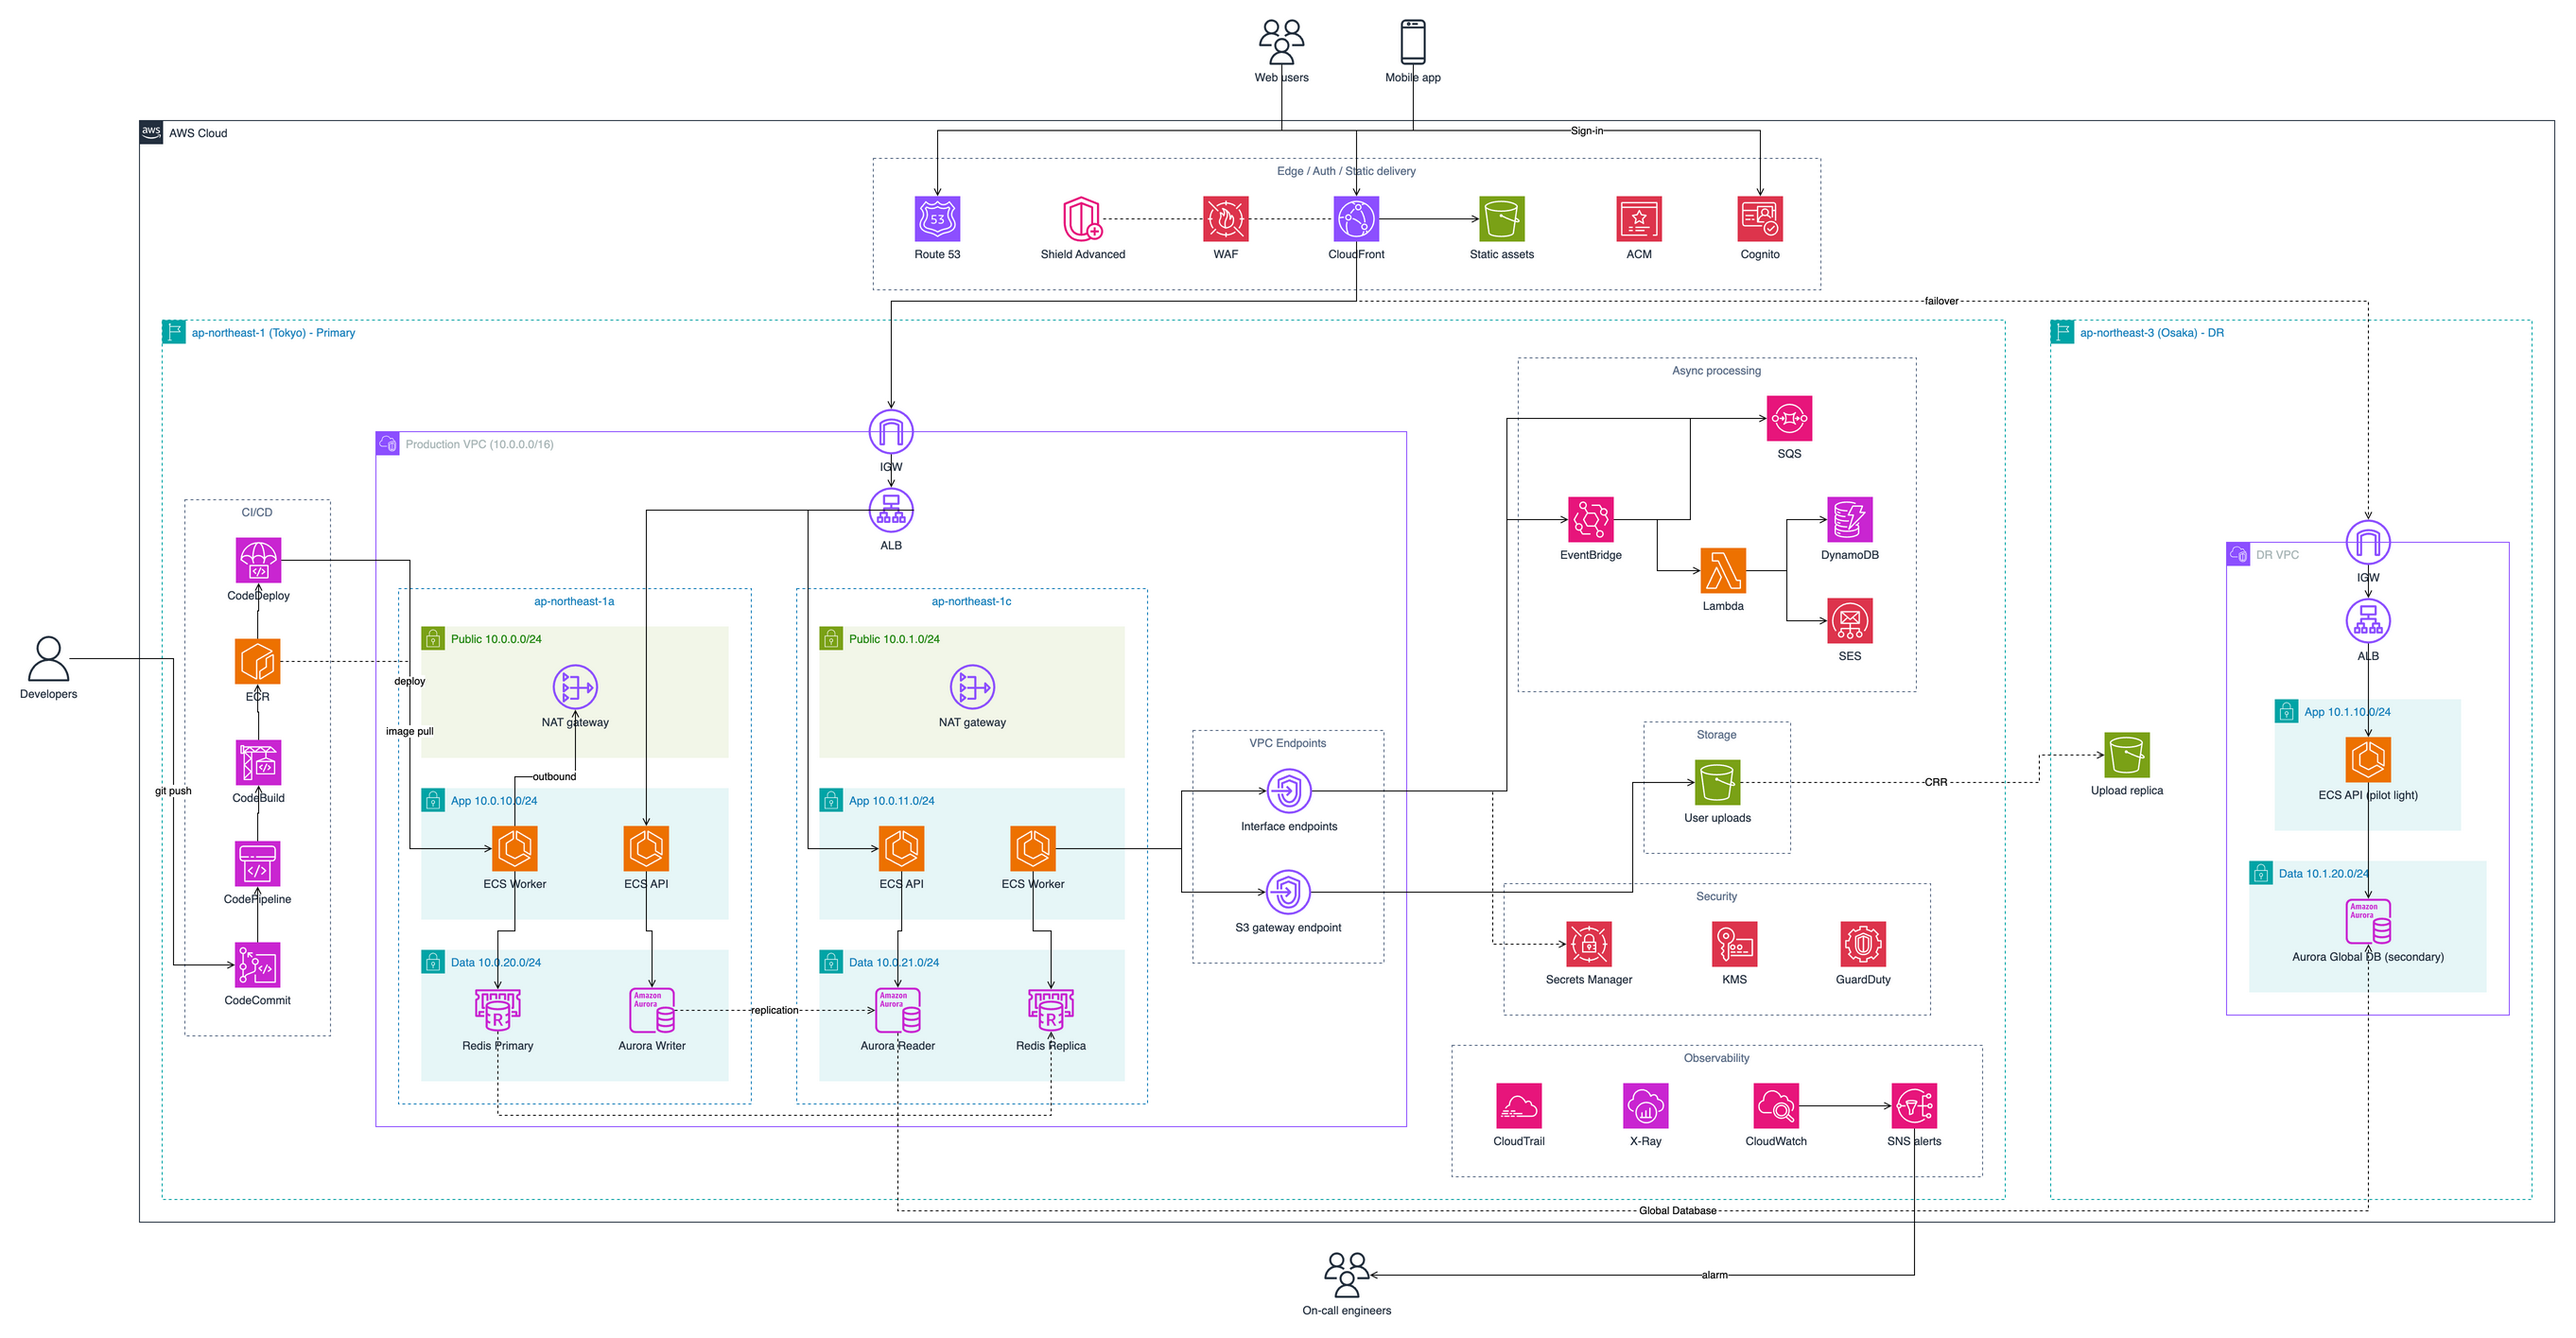
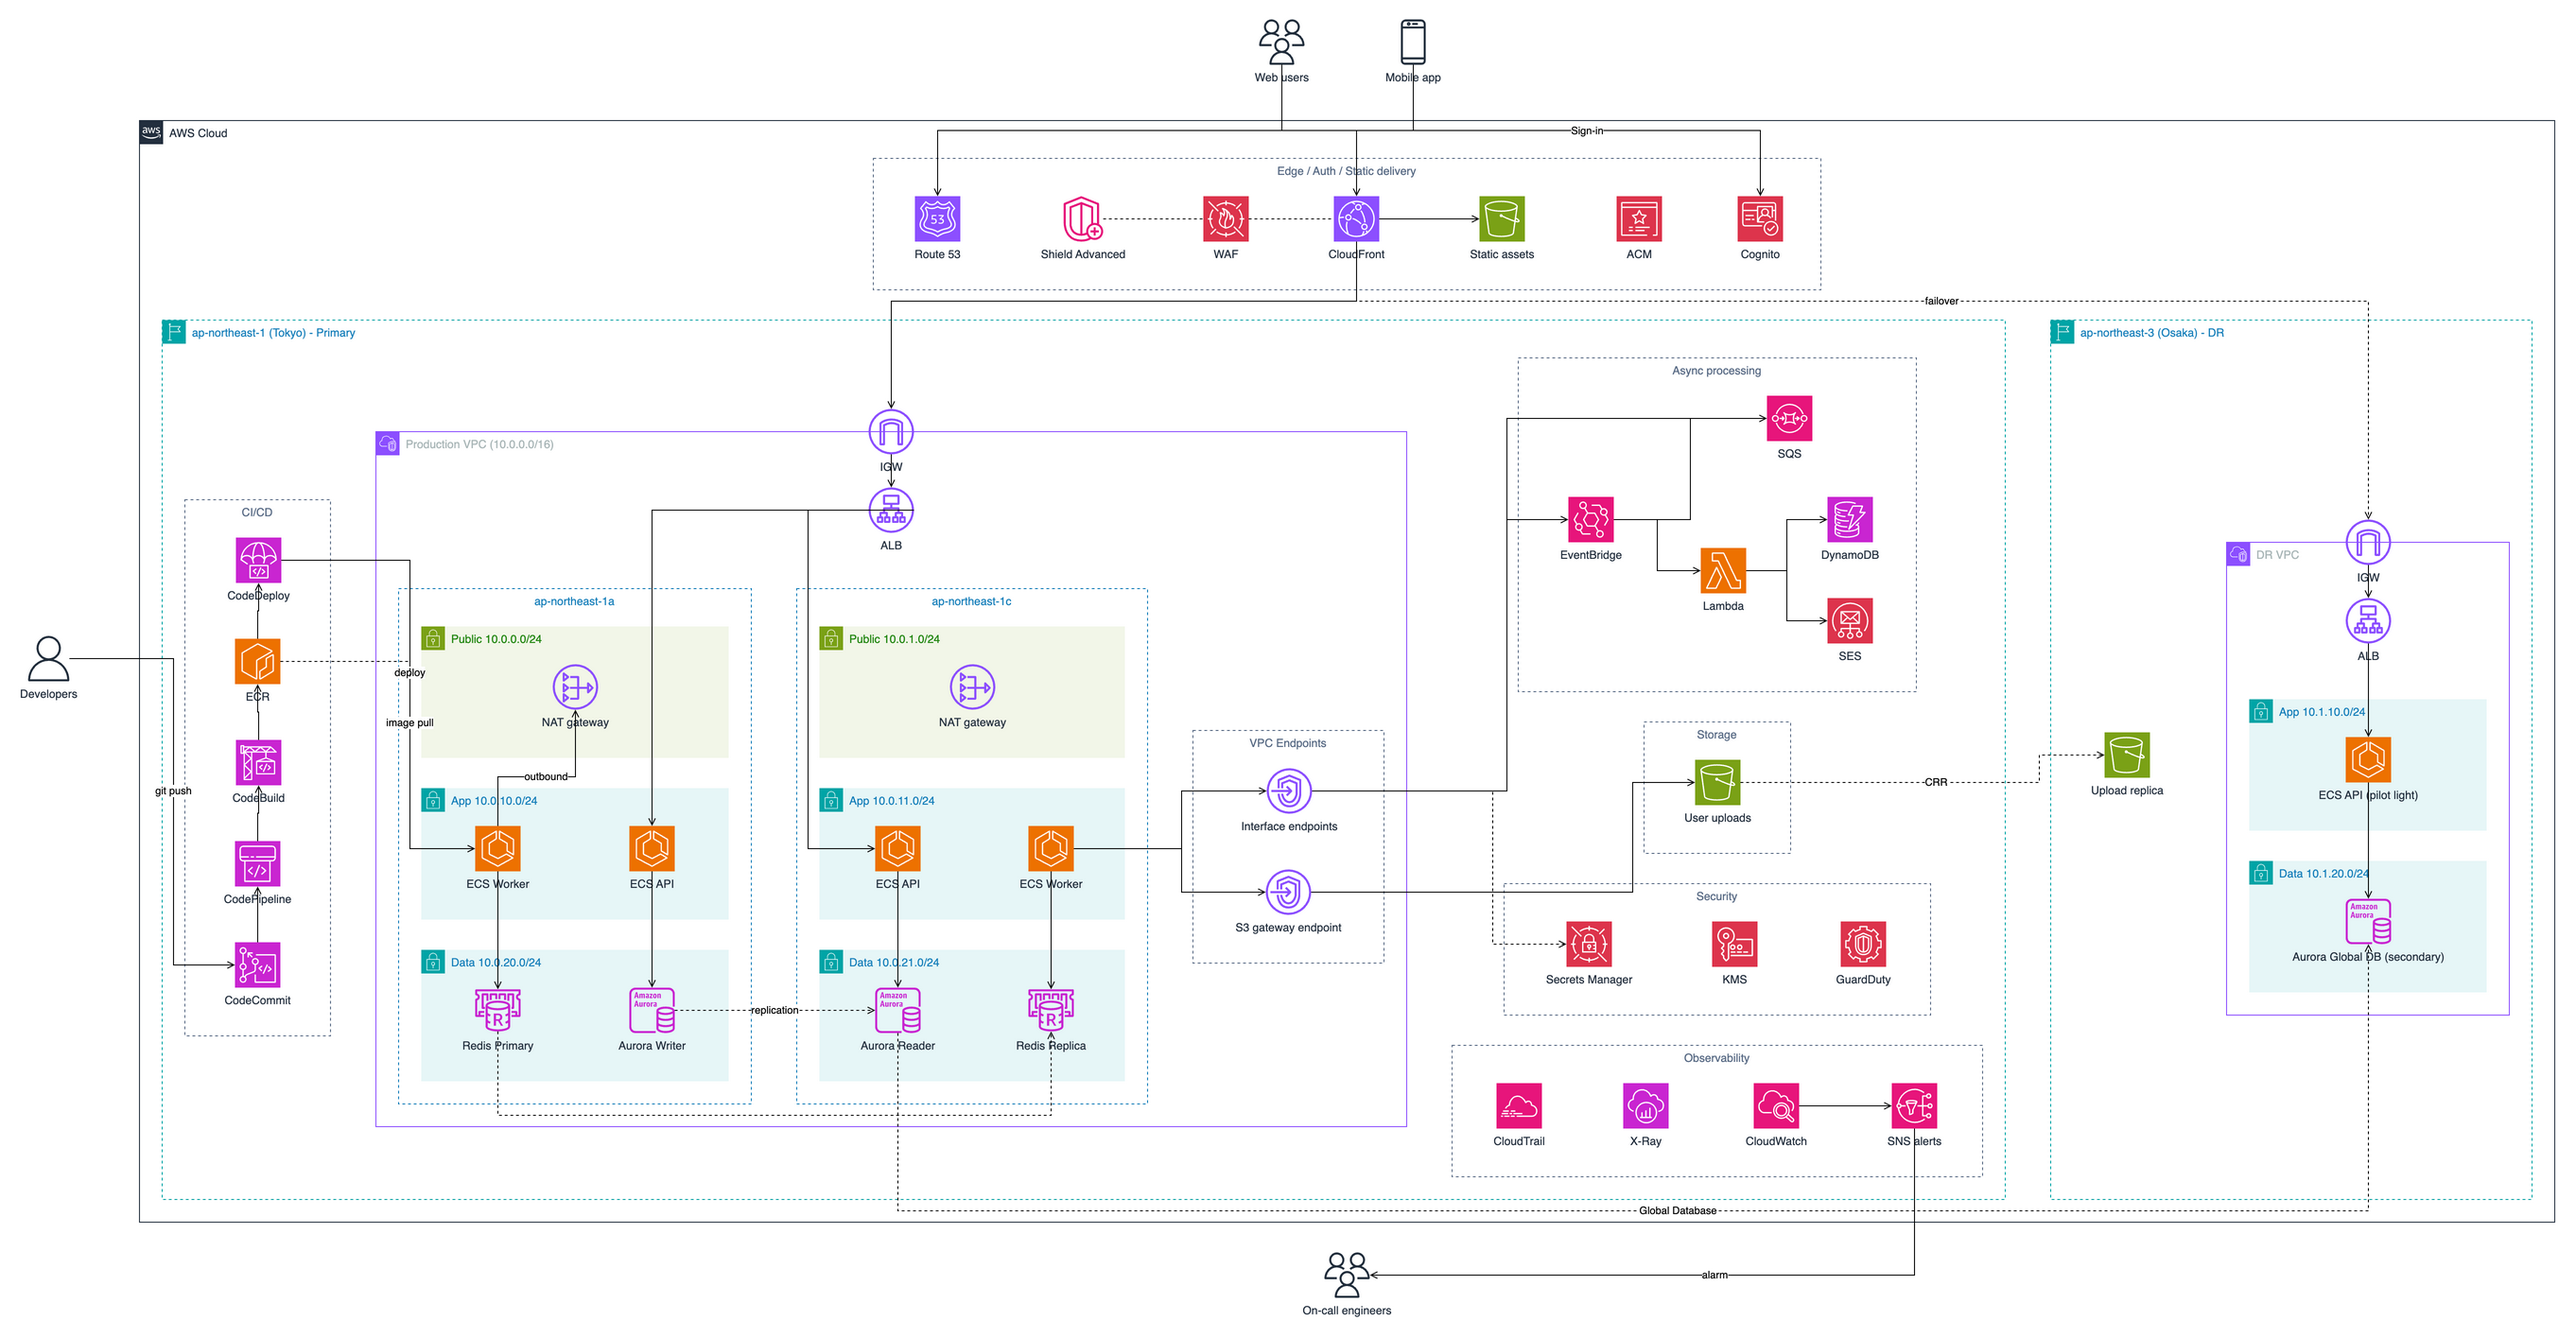
fix: line up leaves in rows stacked in the same column
Lines from the ECS tasks down to Redis and Aurora had small jogs.
A leaf's slot width follows its label, so "ECS Worker" above "Redis
Primary" sat a few pixels apart and draw.io joined them with a step.

Rows of leaves stacked in one column, such as an app subnet above a
data subnet, now share the widest slot width per column, so their
icons line up and the lines between them are straight.

diff --git a/src/layout.ts b/src/layout.ts
@@ -89,7 +89,7 @@ export function layoutDiagram(root: StackNode): Layout {
     if (node.kind === 'leaf') {
       const label = labelSize(node.label);
       size = {
-        width: Math.max(ICON_SIZE, label.width) + LEAF_PADDING_X * 2,
+        width: columnWidths.get(node) ?? leafWidth(node),
         height: ICON_SIZE + (label.height > 0 ? LABEL_GAP + label.height : 0) + LEAF_PADDING_BOTTOM,
       };
     } else if (node.kind === 'group') {
@@ -173,6 +173,7 @@ export function layoutDiagram(root: StackNode): Layout {
     });
   };
 
+  const columnWidths = alignColumns(root);
   const size = measure(root);
   place(root, { x: 0, y: 0, ...size });
   return { cells, ...size };
@@ -187,6 +188,46 @@ function widthToClearLabel(group: GroupNode, labelEnd: number): number {
     .filter((px) => px > 0)
     .map((px) => Math.ceil((labelEnd + BORDER_GAP + ICON_SIZE / 2) / px));
   return Math.max(0, ...widths);
+}
+
+function leafWidth(leaf: LeafNode): number {
+  return Math.max(ICON_SIZE, labelSize(leaf.label).width) + LEAF_PADDING_X * 2;
+}
+
+/**
+ * Rows of leaves stacked in one column (such as an app subnet above a data subnet) get the same
+ * width per column. Otherwise labels of different lengths shift the icons by a few pixels and a
+ * line from one row to the next needs a small jog.
+ */
+function alignColumns(root: DiagramNode): Map<LeafNode, number> {
+  const widths = new Map<LeafNode, number>();
+  const visit = (node: DiagramNode): void => {
+    if (node.kind === 'leaf') return;
+    if (node.direction === 'vertical') {
+      const rows = node.children.flatMap((child) => {
+        const row = leafRow(child);
+        return row ? [row] : [];
+      });
+      for (const count of new Set(rows.map((row) => row.length))) {
+        const sameCount = rows.filter((row) => row.length === count);
+        if (sameCount.length < 2) continue;
+        for (let column = 0; column < count; column++) {
+          const leaves = sameCount.flatMap((row) => row[column] ?? []);
+          const width = Math.max(...leaves.map(leafWidth));
+          for (const leaf of leaves) widths.set(leaf, width);
+        }
+      }
+    }
+    for (const child of node.children) visit(child);
+  };
+  visit(root);
+  return widths;
+}
+
+function leafRow(node: DiagramNode): LeafNode[] | undefined {
+  if (node.kind === 'leaf' || node.direction !== 'horizontal') return undefined;
+  const leaves = node.children.filter((child) => child.kind === 'leaf');
+  return leaves.length === node.children.length ? leaves : undefined;
 }
 
 function max(values: number[]): number {

diff --git a/test/layout.test.ts b/test/layout.test.ts
@@ -157,6 +157,31 @@ describe('layoutDiagram', () => {
     expect(cellOf(layout, 'igw').x).toBeGreaterThan(labelEnd);
   });
 
+  it('lines up leaves in rows stacked in the same column', () => {
+    const layout = layoutDiagram(
+      load(
+        [
+          'nodes:',
+          '  - group: aws.az',
+          '    direction: vertical',
+          '    align: expand',
+          '    children:',
+          '      - group: aws.private_subnet',
+          '        children:',
+          '          - { id: worker, icon: aws.ecs, label: ECS Worker }',
+          '          - { id: api, icon: aws.ecs, label: ECS API }',
+          '      - group: aws.private_subnet',
+          '        children:',
+          '          - { id: redis, icon: aws.redis, label: Redis Primary }',
+          '          - { id: aurora, icon: aws.aurora_instance, label: Aurora Writer }',
+          '',
+        ].join('\n'),
+      ).root,
+    );
+    expect(cellOf(layout, 'worker').x).toBe(cellOf(layout, 'redis').x);
+    expect(cellOf(layout, 'api').x).toBe(cellOf(layout, 'aurora').x);
+  });
+
   it('produces the same coordinates every time', () => {
     const source =
       'nodes:\n  - group: aws.vpc\n    children:\n      - { id: a, icon: aws.lambda }\n';
